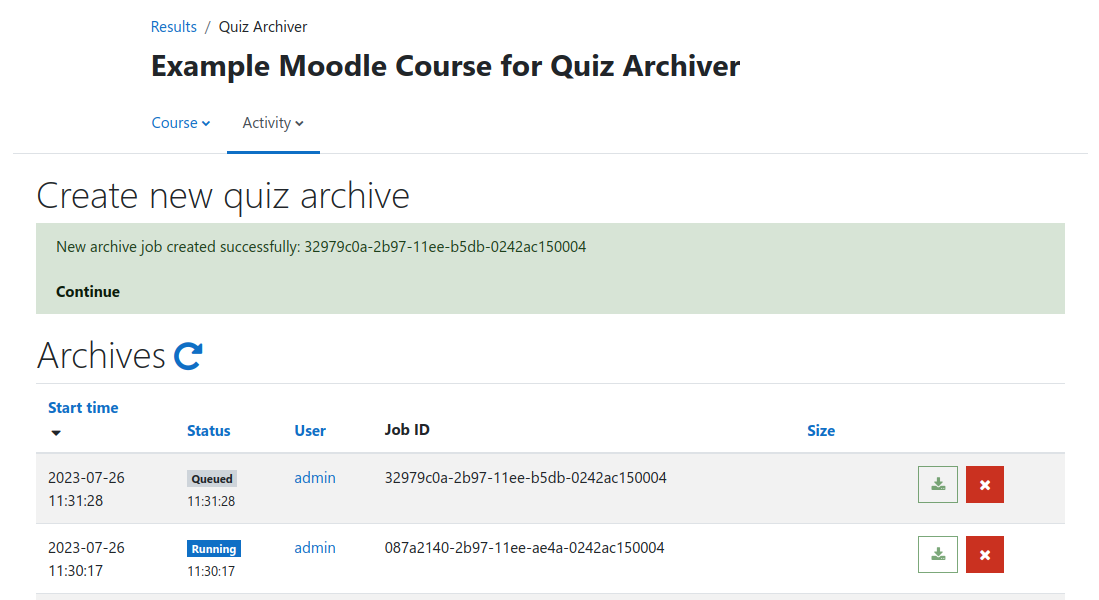
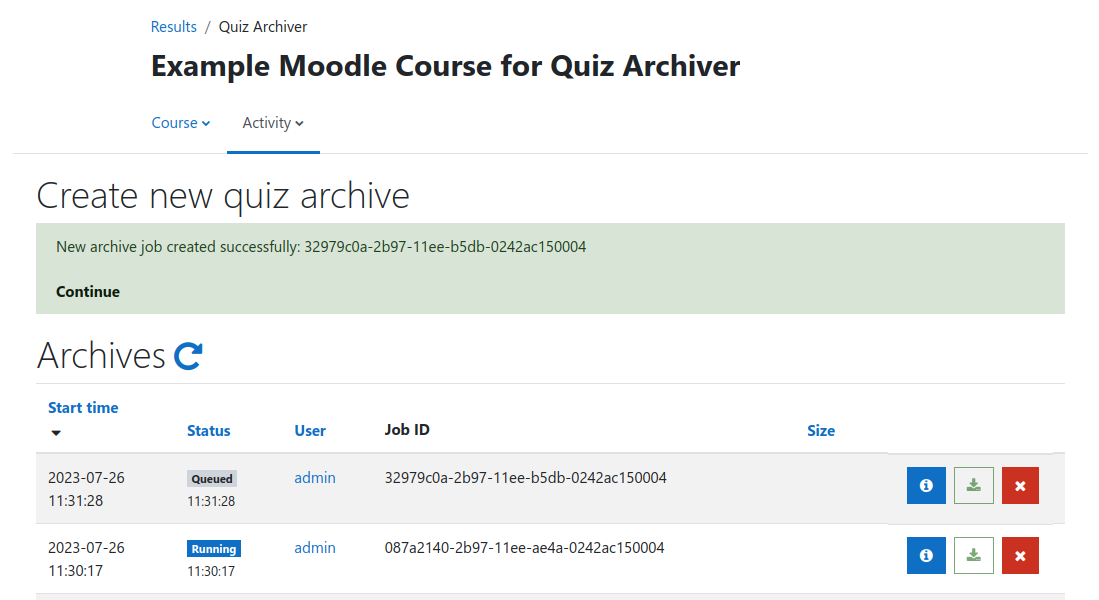
Update README to reflect newest additions

Changed region(s): [[0.8044, 0.87, 0.9591, 0.96], [0.8044, 0.75, 0.9591, 0.84]]

diff --git a/README.md b/README.md
@@ -164,10 +164,12 @@ steps:
 4. Wait until the archive job is completed. You can now download the archive
    from the `Quiz Archiver` page using the `Download archive` button.
 
-Created archives can be deleted by clicking the `Delete archive` button.
+Created archives can be deleted by clicking the `Delete archive` button. Details,
+including all selected settings during archive creation, e.g. number of attempts
+or included components, can be viewed by clicking the `Details` button.
 
 If you encounter permission errors, ensure that the user has the required
-(Capabilities)[#capabilities] assigned.
+[Capabilities](#capabilities) assigned.
 
 
 ## Screenshots
@@ -177,6 +179,9 @@ If you encounter permission errors, ensure that the user has the required
 
 ### New job queued while another job is running
 ![Image of new job queued while another job is running](./doc/screenshots/quiz_archiver_new_job_queued.png)
+
+### Quiz archive job details
+![Image of quiz archive job details](./doc/screenshots/quiz_archiver_job_details_modal.png)
 
 ### Example of PDF report (excerpts)
 ![Image of example of PDF report (extract): Header](./doc/screenshots/quiz_archiver_report_example_pdf_header.png)
